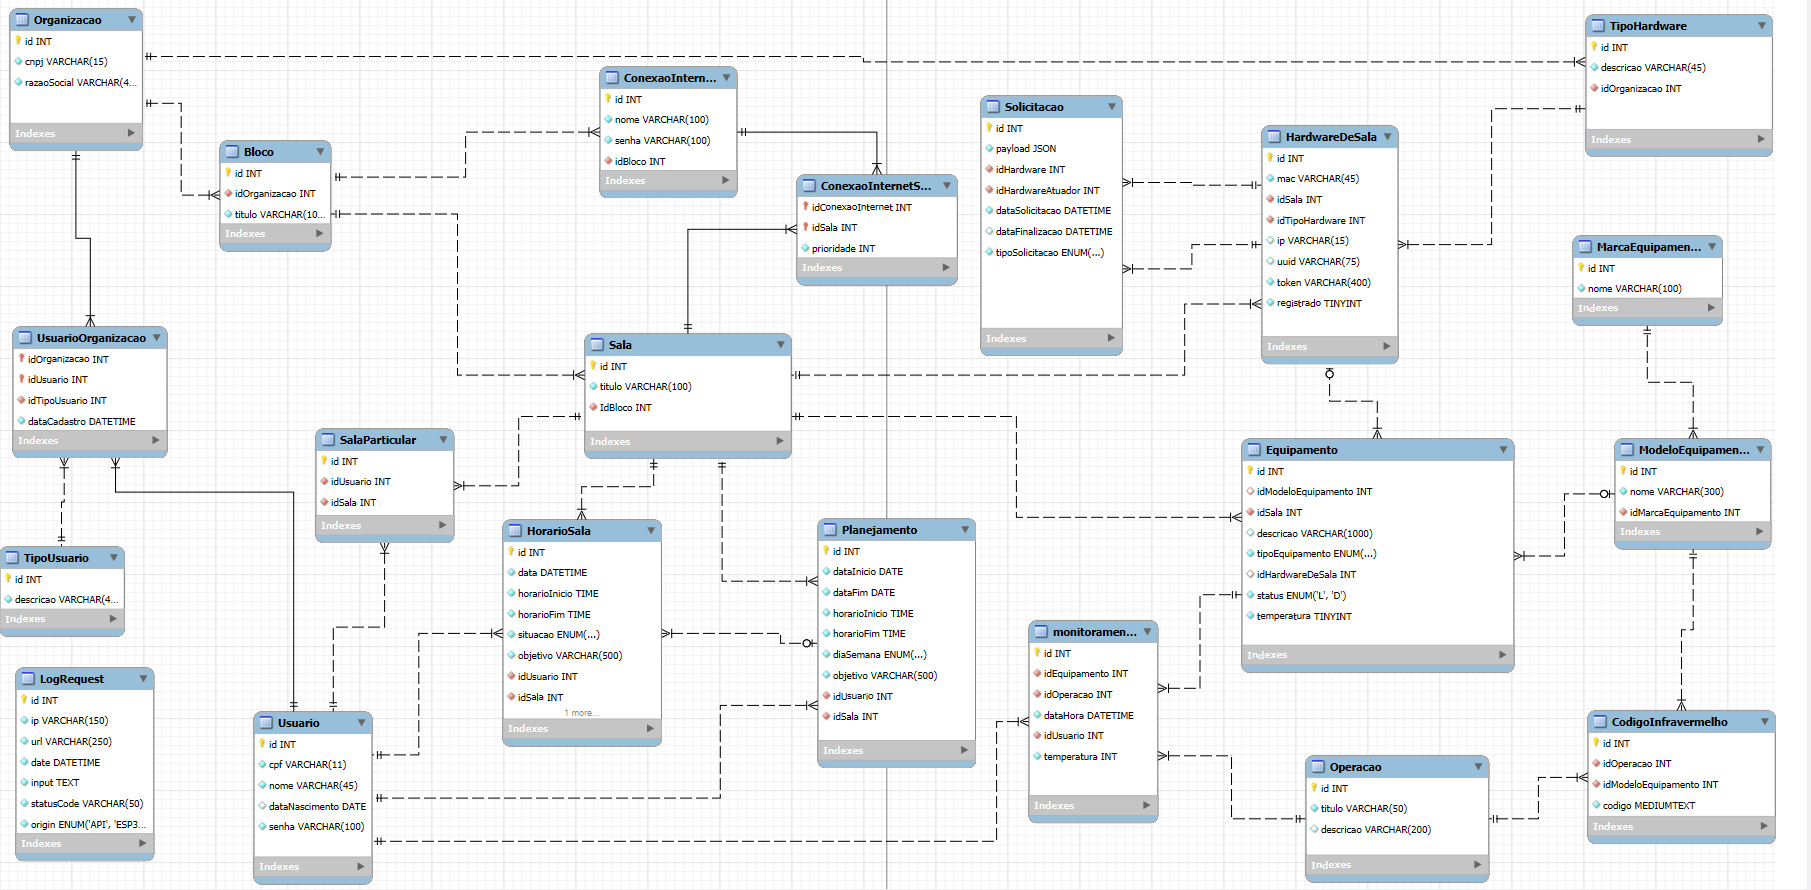
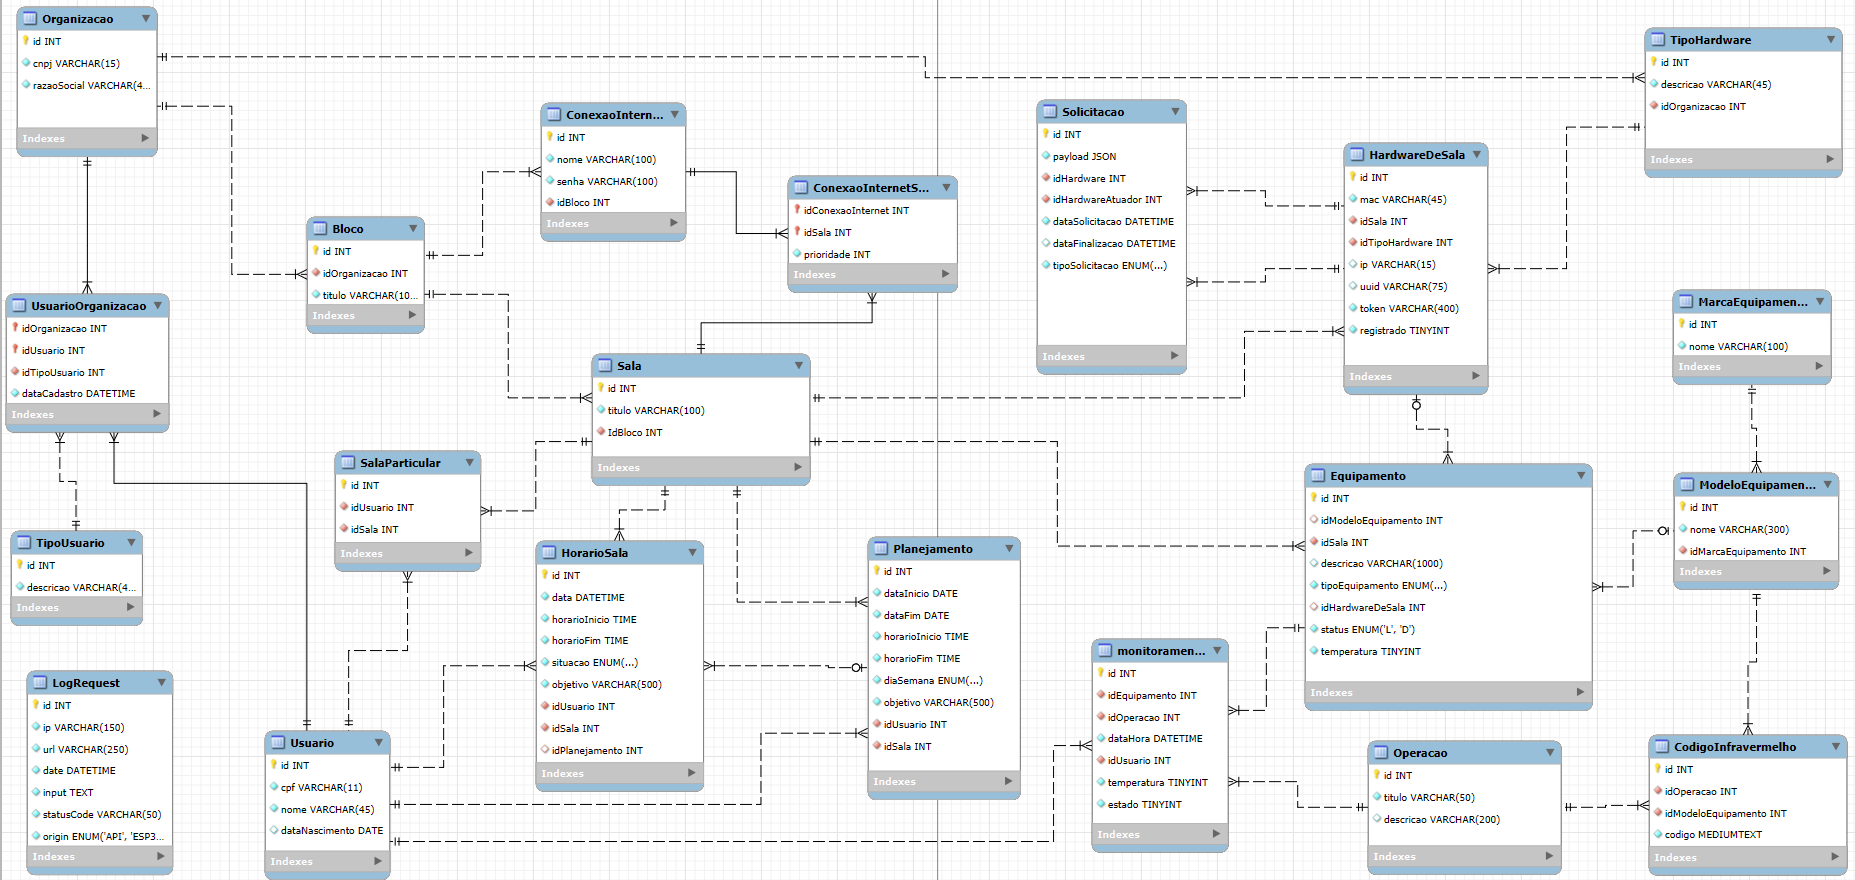
#closed #372

diff --git a/Codigo/ModuloDeSoftware/AutomacaoSalas/Business/UsuarioService.cs b/Codigo/ModuloDeSoftware/AutomacaoSalas/Business/UsuarioService.cs
@@ -24,8 +24,7 @@ namespace Service
                     Id = u.Id,
                     Cpf = u.Cpf,
                     Nome = u.Nome,
-                    DataNascimento = Convert.ToDateTime(u.DataNascimento),
-                    Senha = u.Senha
+                    DataNascimento = Convert.ToDateTime(u.DataNascimento)
                 }).ToList();
 
         /// <summary>
@@ -41,8 +40,7 @@ namespace Service
                     Id = u.Id,
                     Cpf = u.Cpf,
                     Nome = u.Nome,
-                    DataNascimento = Convert.ToDateTime(u.DataNascimento),
-                    Senha = u.Senha
+                    DataNascimento = Convert.ToDateTime(u.DataNascimento)
                 }).ToList();
 
         public UsuarioModel GetById(uint id)
@@ -53,8 +51,7 @@ namespace Service
                     Id = u.Id,
                     Cpf = u.Cpf,
                     Nome = u.Nome,
-                    DataNascimento = Convert.ToDateTime(u.DataNascimento),
-                    Senha = u.Senha
+                    DataNascimento = Convert.ToDateTime(u.DataNascimento)
                 }).FirstOrDefault();
 
 
@@ -80,7 +77,7 @@ namespace Service
             return query;
         }
 
-        public UsuarioModel GetByLoginAndPass(string login, string senha)
+        /*public UsuarioModel GetByLoginAndPass(string login, string senha)
             => _context.Usuarios
                 .Where(u => u.Cpf.Equals(login) && u.Senha.Equals(senha))
                 .Select(u => new UsuarioModel
@@ -91,7 +88,7 @@ namespace Service
                     DataNascimento = Convert.ToDateTime(u.DataNascimento),
                     Senha = u.Senha
                 }).FirstOrDefault();
-
+        */
         public UsuarioViewModel Insert(UsuarioViewModel entity)
         {
             var usuario = GetByCpf(entity.UsuarioModel.Cpf);
@@ -292,8 +289,7 @@ namespace Service
             Id = model.Id,
             Cpf = model.Cpf,
             Nome = model.Nome,
-            DataNascimento = model.DataNascimento,
-            Senha = model.Senha,
+            DataNascimento = model.DataNascimento
         };
 
         public UsuarioModel GetByCpf(string cpf)
@@ -304,11 +300,10 @@ namespace Service
                     Id = u.Id,
                     Cpf = u.Cpf,
                     Nome = u.Nome,
-                    DataNascimento = Convert.ToDateTime(u.DataNascimento),
-                    Senha = u.Senha
+                    DataNascimento = Convert.ToDateTime(u.DataNascimento)
                 }).FirstOrDefault();
 
-        public List<UsuarioModel> GetAllByIdsOrganizacao(List<uint> ids) => _context.Usuarios.Where(u => ids.Contains(u.Id)).Select(u => new UsuarioModel { Id = u.Id, Cpf = u.Cpf, DataNascimento = (DateTime)u.DataNascimento, Nome = u.Nome, Senha = u.Senha }).ToList();
+        public List<UsuarioModel> GetAllByIdsOrganizacao(List<uint> ids) => _context.Usuarios.Where(u => ids.Contains(u.Id)).Select(u => new UsuarioModel { Id = u.Id, Cpf = u.Cpf, DataNascimento = (DateTime)u.DataNascimento, Nome = u.Nome }).ToList();
 
     }
 }

diff --git a/Codigo/ModuloDeSoftware/AutomacaoSalas/Persistence/SalasDBContext.cs b/Codigo/ModuloDeSoftware/AutomacaoSalas/Persistence/SalasDBContext.cs
@@ -57,6 +57,10 @@ public partial class SalasDBContext : DbContext
 
     public virtual DbSet<Usuarioorganizacao> Usuarioorganizacaos { get; set; }
 
+    protected override void OnConfiguring(DbContextOptionsBuilder optionsBuilder)
+#warning To protect potentially sensitive information in your connection string, you should move it out of source code. You can avoid scaffolding the connection string by using the Name= syntax to read it from configuration - see https://go.microsoft.com/fwlink/?linkid=2131148. For more guidance on storing connection strings, see https://go.microsoft.com/fwlink/?LinkId=723263.
+        => optionsBuilder.UseMySQL("server=localhost;port=3306;user=root;password=123456;database=automacaosalas");
+
     protected override void OnModelCreating(ModelBuilder modelBuilder)
     {
         modelBuilder.Entity<Bloco>(entity =>
@@ -591,9 +595,6 @@ public partial class SalasDBContext : DbContext
             entity.Property(e => e.Nome)
                 .HasMaxLength(45)
                 .HasColumnName("nome");
-            entity.Property(e => e.Senha)
-                .HasMaxLength(100)
-                .HasColumnName("senha");
         });
 
         modelBuilder.Entity<Usuarioorganizacao>(entity =>

diff --git a/Codigo/ModuloDeSoftware/AutomacaoSalas/Business/Interface/IUsuarioService.cs b/Codigo/ModuloDeSoftware/AutomacaoSalas/Business/Interface/IUsuarioService.cs
@@ -13,7 +13,7 @@ namespace Service.Interface
         UsuarioModel GetByCpf(string cpf);
         List<UsuarioModel> GetByIdOrganizacao(uint id);
         List<UsuarioModel> GetAllByIdsOrganizacao(List<uint> ids);
-        UsuarioModel GetByLoginAndPass(string login, string senha);
+        //UsuarioModel GetByLoginAndPass(string login, string senha);
         UsuarioViewModel Insert(UsuarioViewModel entity);
         bool Remove(int id);
         bool Update(UsuarioModel entity);

diff --git a/Codigo/ModuloDeSoftware/AutomacaoSalas/SalasAPI/Controllers/AuthController.cs b/Codigo/ModuloDeSoftware/AutomacaoSalas/SalasAPI/Controllers/AuthController.cs
@@ -34,6 +34,7 @@ namespace SalasAPI.Controllers
             _usuarioOrganizacaoService = usuarioOrganizacaoService;
         }
 
+        /*
         [AllowAnonymous]
         [HttpPost]
         public IActionResult RequestToken([FromBody] LoginViewModel request)
@@ -87,6 +88,7 @@ namespace SalasAPI.Controllers
 
             return BadRequest("Credenciais Invalidas");
         }
+        */
         
     }
 }

diff --git a/Codigo/ModuloDeSoftware/AutomacaoSalas/Persistence/Usuario.cs b/Codigo/ModuloDeSoftware/AutomacaoSalas/Persistence/Usuario.cs
@@ -13,8 +13,6 @@ public partial class Usuario
 
     public DateTime? DataNascimento { get; set; }
 
-    public string Senha { get; set; } = null!;
-
     public virtual ICollection<Horariosala> Horariosalas { get; set; } = new List<Horariosala>();
 
     public virtual ICollection<Monitoramento> Monitoramentos { get; set; } = new List<Monitoramento>();
